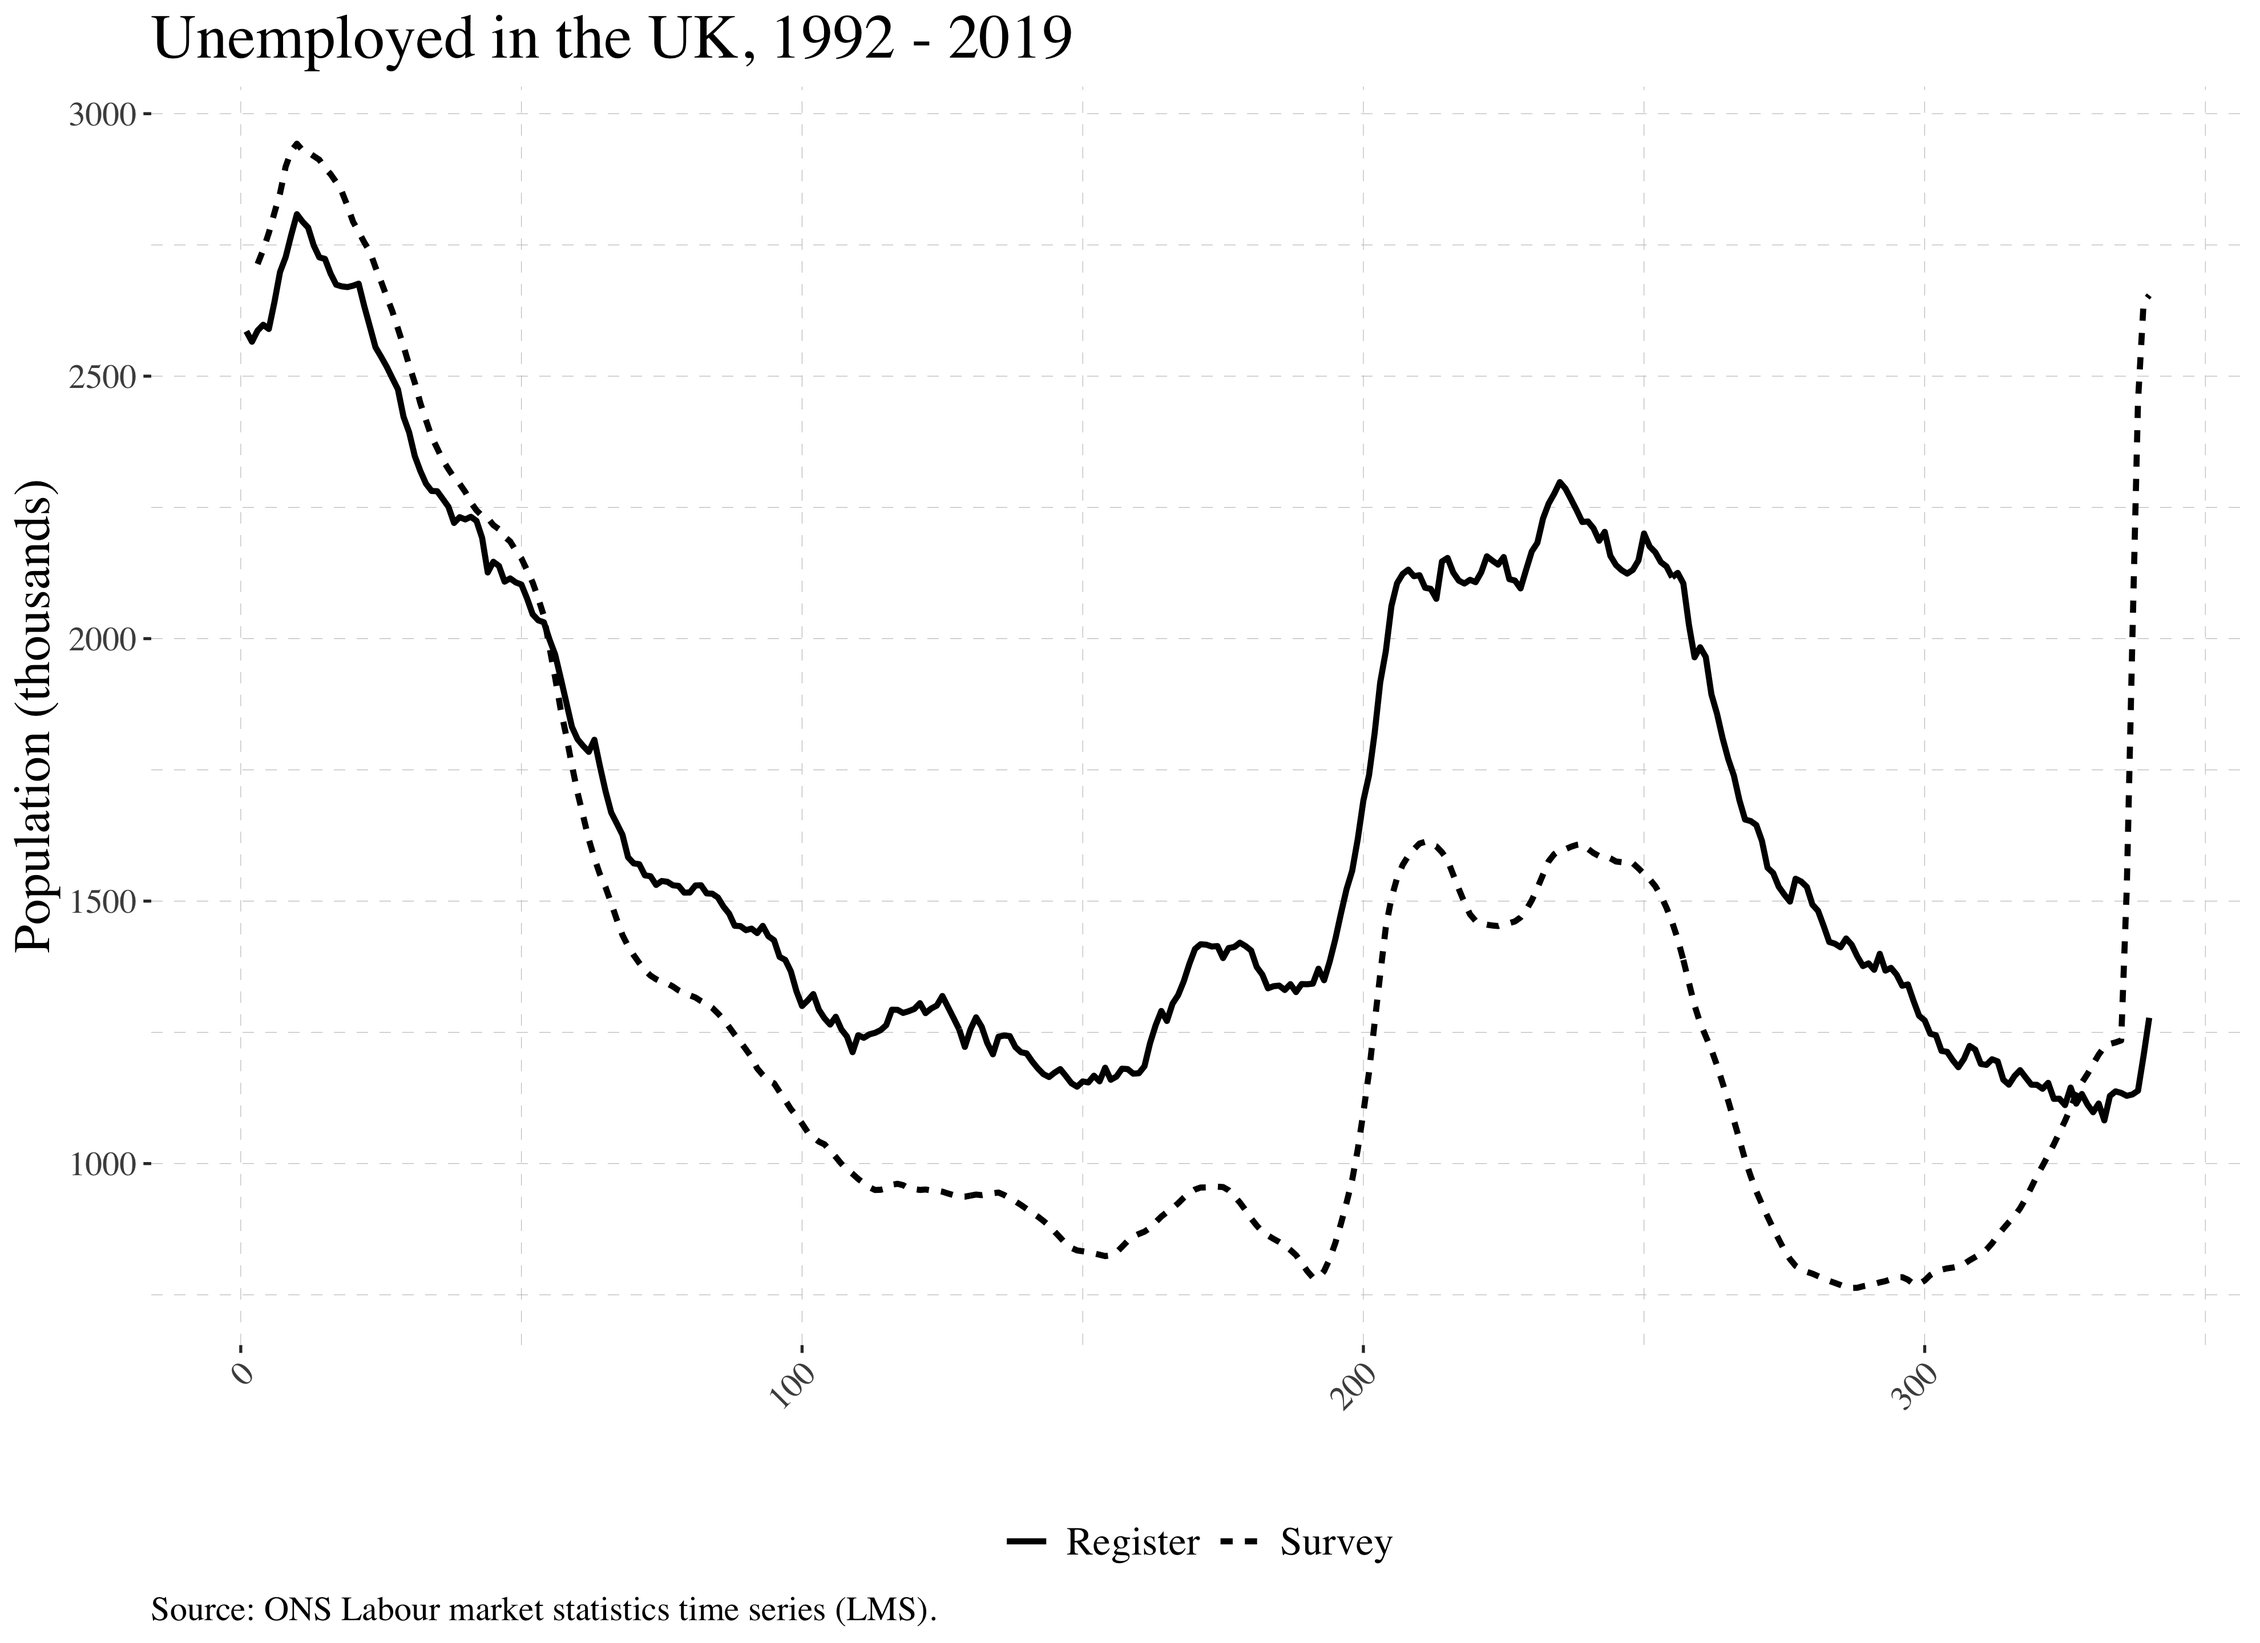
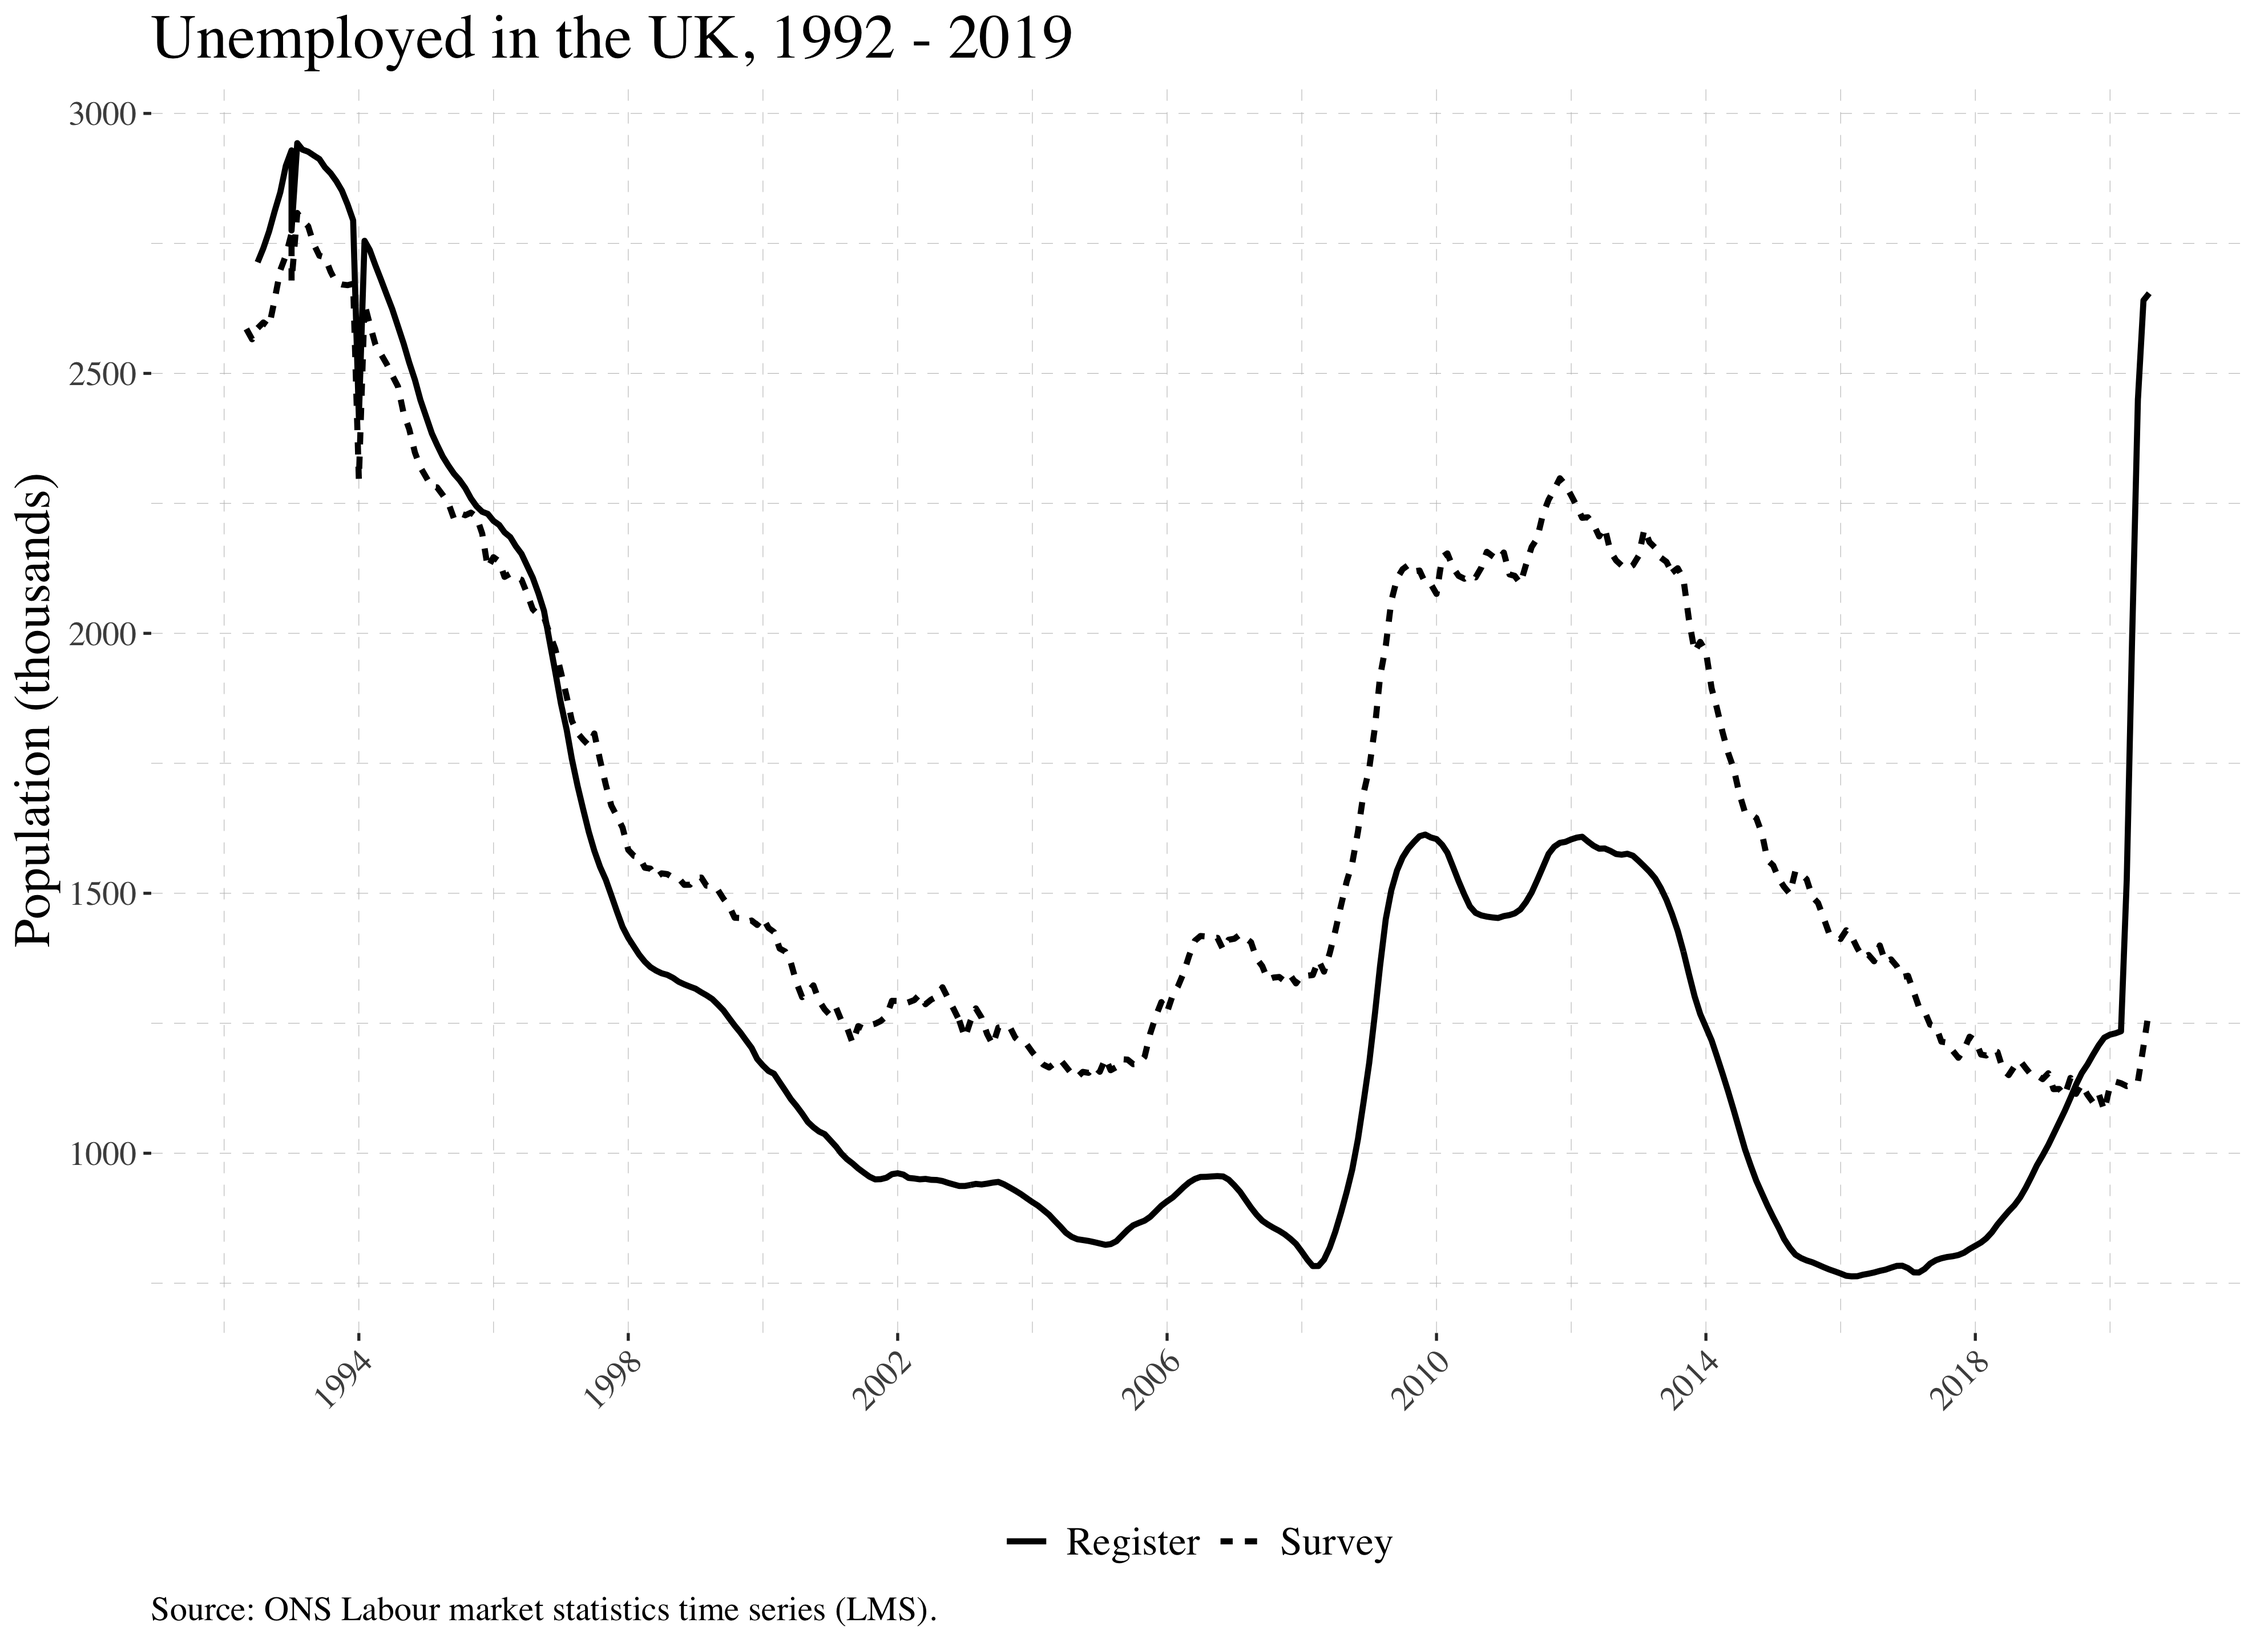
changes to lab 6

diff --git a/lectures/lecture_7.html b/lectures/lecture_7.html
@@ -4,7 +4,7 @@
     <title>Economic Data - Lecture 7</title>
     <meta charset="utf-8" />
     <meta name="author" content="School of Economics - University of Bristol" />
-    <meta name="date" content="2024-11-04" />
+    <meta name="date" content="2026-10-22" />
     <script src="libs/header-attrs/header-attrs.js"></script>
     <link rel="stylesheet" href="xaringan-themer.css" type="text/css" />
   </head>
@@ -22,7 +22,7 @@ class: center, middle, inverse, title-slide
 ### School of Economics - University of Bristol
 ]
 .date[
-### 2024-11-04
+### 2026-10-22
 ]
 
 ---
@@ -51,6 +51,18 @@ code.r.hljs.remark-code:hover{
   width: 500px;
   border-style: solid;
 }
+
+.centered-content {
+  display: flex;
+  flex-direction: column;
+  justify-content: center;
+  align-items: center;
+  height: 60vh;
+  text-align: center;
+  margin-top: auto;
+  margin-bottom: auto;
+}
+
 &lt;/style&gt;
 
 
@@ -58,6 +70,22 @@ code.r.hljs.remark-code:hover{
 
 
 
+
+&lt;div class="centered-content"&gt;
+  &lt;h2&gt; &lt;/h2&gt;
+   &lt;p&gt;  Labour Market Data &lt;p&gt;
+
+   &lt;p&gt;  Register and Survey Data &lt;p&gt;
+
+  &lt;p&gt;  Seasonal Adjustment &lt;p&gt;
+
+
+&lt;/div&gt;
+
+
+
+
+---
 
 ## After this lecture you should be able to
 
@@ -67,7 +95,7 @@ code.r.hljs.remark-code:hover{
 
 2. Explain the difference between register and survey data.
 
-3. Explain the intuition behind seasonal adjustment. 
+3. Explain the intuition behind seasonal adjustment.
 
 
 &lt;!-- froim pop to labor market, some def of labor market, then the data sources, then seasnoall adjustment  --&gt;
@@ -77,7 +105,7 @@ code.r.hljs.remark-code:hover{
 ---
 class: inverse, center, middle
 
-# Data About the Labor Market
+# Data About the Labour Market
 
 
 ---
@@ -380,7 +408,7 @@ class: inverse, center, middle
 
 ## Seasonal variation 
 
-Labor market data has a substantial seasonal component.
+Labour market data has a substantial seasonal component.
 
 - Night: fewer people work, travel etc.
 
@@ -2192,6 +2220,14 @@ There is a large literature in econometrics and statistics on filtering time ser
 
 &lt;!-- - Earnings &amp; promotions --&gt;
 
+
+
+
+---
+
+class: inverse, center, middle
+
+# Summary
 
 
 

diff --git a/labs/lab_pwt.html b/labs/lab_pwt.html
@@ -420,42 +420,8 @@ countries observed over 70 years (1950–2019).</li>
 </ul>
 </details></li>
 <li><p>The variables you will need for this exercise are described in
-the table below. Run <code>?pwt10.0</code> to see the full list of
-variables.</p>
-<table>
-<colgroup>
-<col width="43%" />
-<col width="56%" />
-</colgroup>
-<thead>
-<tr class="header">
-<th>Variable</th>
-<th>Description</th>
-</tr>
-</thead>
-<tbody>
-<tr class="odd">
-<td><code>isocode</code></td>
-<td>ISO 3-letter country code</td>
-</tr>
-<tr class="even">
-<td><code>country</code></td>
-<td>Country name</td>
-</tr>
-<tr class="odd">
-<td><code>year</code></td>
-<td>Year</td>
-</tr>
-<tr class="even">
-<td><code>rgdpe</code></td>
-<td>Expenditure-side real GDP at chained PPPs, millions of 2017 USD</td>
-</tr>
-<tr class="odd">
-<td><code>pop</code></td>
-<td>Population, millions</td>
-</tr>
-</tbody>
-</table></li>
+the table below. Run <code>??pwt10</code> to see the full list of
+variables.</p></li>
 <li><p>Keep only these five columns and overwrite <code>df</code>.</p>
 <details>
 <summary>
